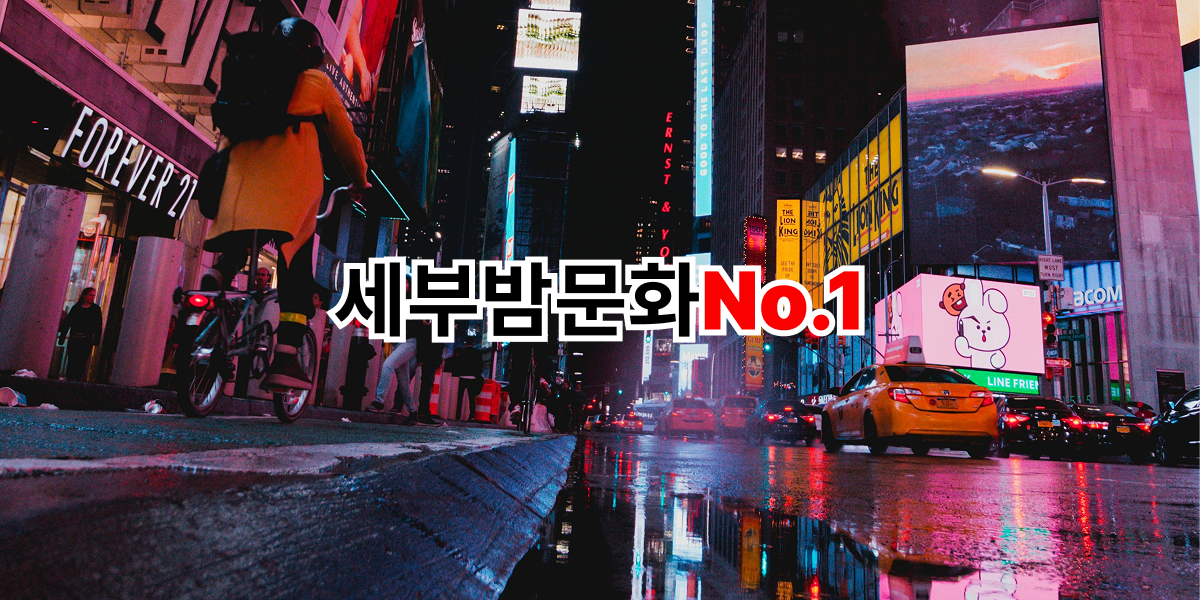
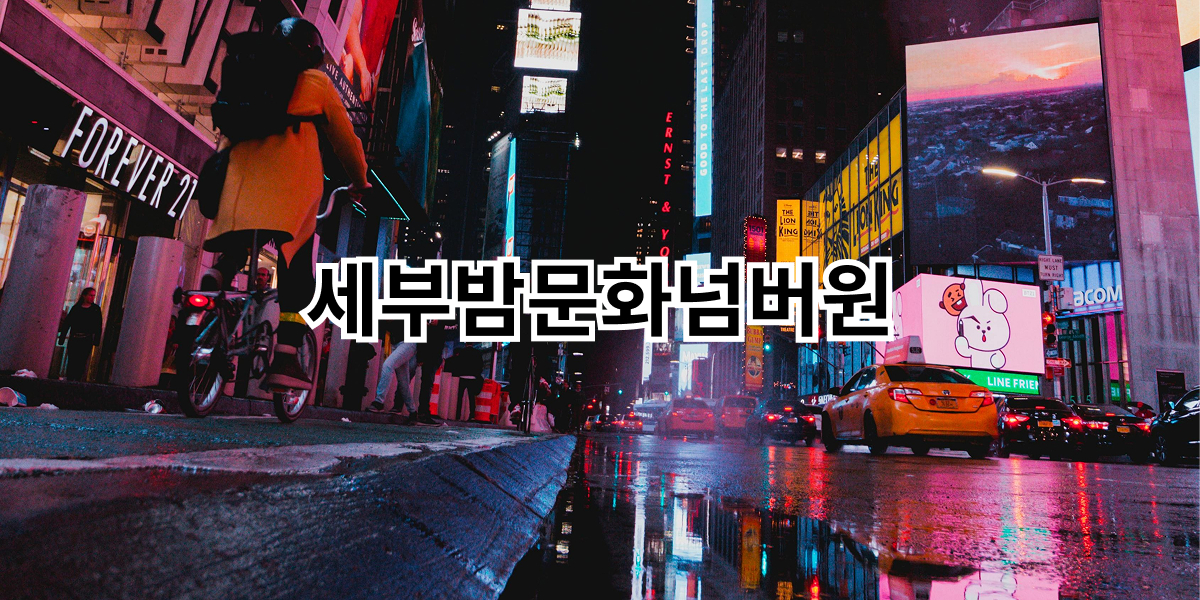
changes

Changed region(s): [[0.2467, 0.42, 0.7708, 0.57]]

diff --git a/index.html b/index.html
@@ -3,13 +3,11 @@
   <head>
     <meta charset="UTF-8" />
     <link rel="icon" type="image/svg+xml" href="/favicon.svg" />
-    <meta name="viewport" content="width=device-width, initial-scale=1.0" />
-    <!-- <title>세부밤문화No.1</title>
-    <meta name="description" content="세부시 최고의 클럽, 바, 나이트라이프 명소를 한눈에! 필리핀 세부의 밤 문화를 경험해 보세요."> -->
+    <meta name="viewport" content="width=device-width, initial-scale=1.0" />\
     <meta name="keywords" content="세부밤문화,   세부아이콘, 세부나이트, 황제투어, 세부에코걸, 세부골프, 세부에스코트걸, 세부황제관광, 세부황제골프, 세부클럽">
 
     <!-- Open Graph -->
-    <meta property="og:title" content="세부밤문화 정보를 찾는 중이신가요?">
+    <meta property="og:title" content="세부에코걸 & 황제투어에 대한 총 정리">
     <meta property="og:description" content="세부밤문화 풀빌라패키지 , 세부에코걸, 세부에스코트걸, 세부황제골프, 세부 최신 황제투어에 대한 총 정리">
     <meta property="og:image" content="https://www.cebueco.com/og-image.jpg">
     <meta property="og:url" content="https://www.cebueco.com/">
@@ -18,7 +16,7 @@
 
     <!-- Twitter Card -->
     <meta name="twitter:card" content="summary_large_image">
-    <meta name="twitter:title" content="세부밤문화 정보를 찾는 중이신가요?">
+    <meta name="twitter:title" content="세부에코걸 & 황제투어에 대한 총 정리">
     <meta name="twitter:description" content="지인 혹 친구들과 가는여행 잊지못할 밤문화여행 하셔야 겠지요. 필리핀 치안,밤문화 불안감 등은 접어두시고 환상의섬 세부에서 힐링여행 어떠신가요?">
     <meta name="twitter:image" content="https://www.cebueco.com/og-image.jpg">
 

diff --git a/src/pages/Homepage.jsx b/src/pages/Homepage.jsx
@@ -37,11 +37,11 @@ const Homepage = () => {
 
   return (
     <main id='homepage'>
-            <title>세부밤문화No.1</title>  
+            <title>세부밤문화넘버원</title>  
             <meta name="description" 
               content="세부밤문화 풀빌라패키지 , 세부에코걸, 세부에스코트걸, 세부황제골프, 세부 최신 황제투어에 대한 총 정리" 
             />
-            <meta property="og:title" content="세부밤문화No.1" />
+            <meta property="og:title" content="세부에코걸 & 황제투어에 대한 총 정리" />
             <meta property="og:description" content="세부밤문화 풀빌라패키지 , 세부에코걸, 세부에스코트걸, 세부황제골프, 세부 최신 황제투어에 대한 총 정리" />
         <meta property="og:image" content="https://www.cebueco.com/og-image.jpg" />
         <Carousel images={isMobile ? carouserImagesMobile : carouselImages}>
